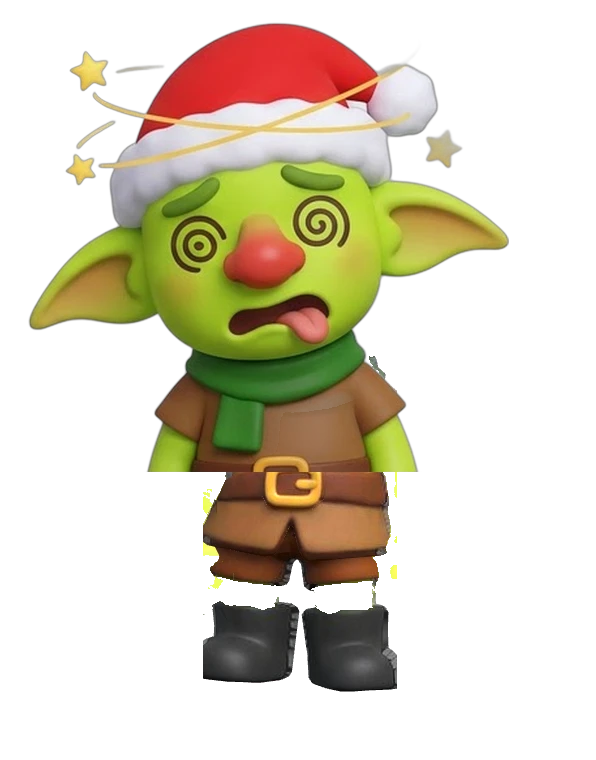
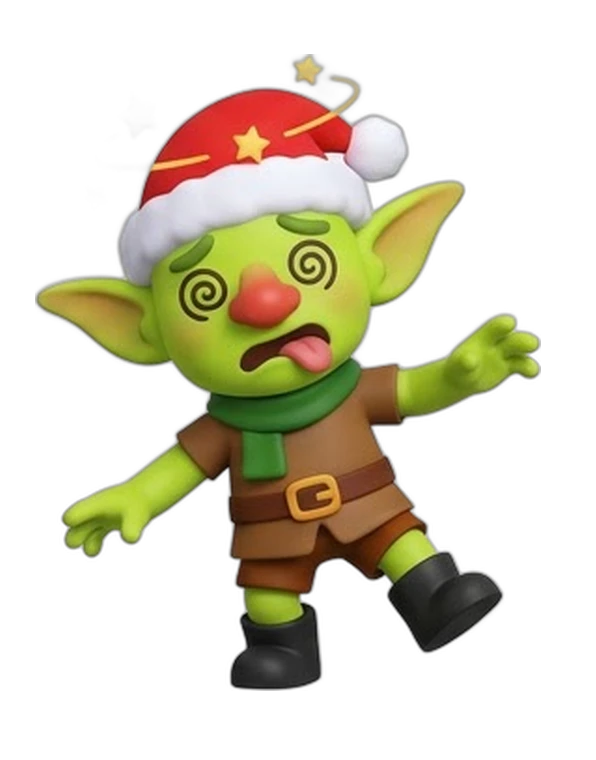
Zibo ifadeleri: Gemini tam boy pozlar
Claude-Session: https://claude.ai/code/session_0191AENRj6NxBSee7MxoHGTm

diff --git a/sw.js b/sw.js
@@ -1,6 +1,6 @@
 // İnternetsiz çalışma. Önce ağı dener (yeni görseller hemen görünsün), ağ yoksa hafızadan verir.
 importScripts('sw-files.js');
-const CACHE = 'catchzibo-v154';
+const CACHE = 'catchzibo-v155';
 
 // İlk açılışta yalnız oyunun çekirdeği (kod, yazı tipi, arayüz) iner; görseller oynadıkça önbelleğe girer.
 // Böylece telefon ilk açılışta yüzlerce dosya indirmez.
